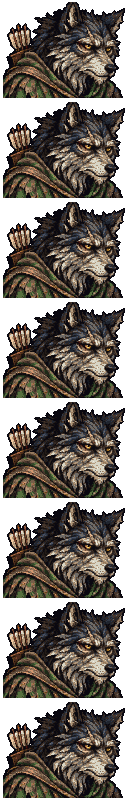
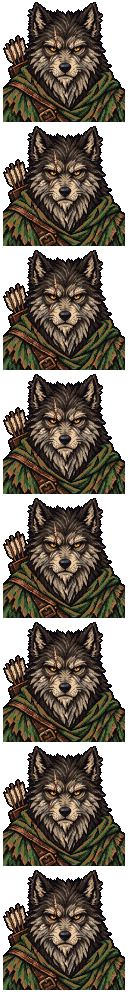
The ending's close-ups are his two new front faces: GreyFang scowling, the Harbinger with both mirrors (deep16/_src/Fresh, cut by tools/faces-sheet.py to 120 px; the flare finds both mirror eyes, GreyFang no longer turned)
Griz, 10-08: "I remember a lot of the art sheets starting with a big ole face in the top left.." -- and then two faces of their own, dropped in Fresh.

diff --git a/deep16/js/trophy.js b/deep16/js/trophy.js
@@ -48,7 +48,7 @@
     var c = document.createElement('canvas'); c.width = f.fw; c.height = f.fh; var g = c.getContext('2d'); g.drawImage(f.img, f.sx, f.sy, f.fw, f.fh, 0, 0, f.fw, f.fh);
     var d = g.getImageData(0, 0, f.fw, f.fh).data, top = f.fh, pts = [];
     for (var y = 0; y < f.fh; y++) for (var x = 0; x < f.fw; x++) if (d[(y * f.fw + x) * 4 + 3] > 0) { top = Math.min(top, y); }
-    for (y = top; y < top + (f.ay - top) * 0.45; y++) for (x = 0; x < f.fw; x++) { var i = (y * f.fw + x) * 4; if (d[i + 3] > 0 && d[i + 2] > 190 && d[i + 1] > 170 && d[i + 2] >= d[i]) pts.push([x, y]); }
+    for (y = top; y < top + (f.ay - top) * 0.6; y++) for (x = 0; x < f.fw; x++) { var i = (y * f.fw + x) * 4; if (d[i + 3] > 0 && d[i + 2] > 190 && d[i + 1] > 170 && d[i + 2] >= d[i]) pts.push([x, y]); }
     if (!pts.length) return (EYES[key] = []);
     var mx = pts.reduce(function (s, p) { return s + p[0]; }, 0) / pts.length, L = pts.filter(function (p) { return p[0] <= mx; }), R = pts.filter(function (p) { return p[0] > mx; });
     var mean = function (ps) { return ps.length ? [ps.reduce(function (s, p) { return s + p[0]; }, 0) / ps.length - f.ax, ps.reduce(function (s, p) { return s + p[1]; }, 0) / ps.length - f.ay] : null; };
@@ -174,13 +174,13 @@
       // ---- his face: "The Mane is mine."
       for (var df = 0; df < 16; df++) { S.dim = df / 16 * 0.8; yield 1; }
       for (var fw8 = 0; fw8 < 120 && D.spr.ready && !D.spr.ready(['face_harbinger', 'face_greyfang']); fw8++) yield 1; // (the faces not come yet: a moment's wait, two seconds at most)
-      S.face = { sheet: 'face_harbinger', s: 1.2, flare: 0 }; // (the big face off his sheet -- Griz, 10-08: "I remember a lot of the art sheets starting with a big ole face in the top left..")
-      for (var zf = 0; zf < 22; zf++) { S.face.s = 1.2 + ease(zf / 22) * 1.5; yield 1; } // (in on it)
+      S.face = { sheet: 'face_harbinger', s: 1.0, flare: 0 }; // (the big face off his sheet -- Griz, 10-08: "I remember a lot of the art sheets starting with a big ole face in the top left..")
+      for (var zf = 0; zf < 22; zf++) { S.face.s = 1.0 + ease(zf / 22) * 1.1; yield 1; } // (in on it)
       word('audio/the_mane_is_mine.mp3', 'The Mane is mine.');
       B.card(['{v}"The Mane is mine."{/}'], 1e9, 'trophy');
       for (var ef = 0; ef < 40; ef++) { S.face.flare = ef < 8 ? ef / 8 : Math.max(0, 1 - (ef - 8) / 32); yield 1; }
       yield 30;
-      for (zf = 0; zf < 14; zf++) { S.face.s = 2.7 - ease(zf / 14) * 1.2; S.dim = 0.8 * (1 - zf / 14); yield 1; }
+      for (zf = 0; zf < 14; zf++) { S.face.s = 2.1 - ease(zf / 14) * 1.0; S.dim = 0.8 * (1 - zf / 14); yield 1; }
       S.face = null; S.dim = 0;
       // ---- the Pounce onto GreyFang
       B.clearCards && B.clearCards();
@@ -222,10 +222,10 @@
       // ---- their faces
       B.card(['{v}High over the pit, it looks GreyFang in the eye.{/}'], 1e9, 'trophy');
       for (df = 0; df < 12; df++) { S.dim = df / 12 * 0.55; yield 1; }
-      S.face = { sheet: 'face_harbinger', s: 1.2 };
-      for (zf = 0; zf < 18; zf++) { S.face.s = 1.2 + ease(zf / 18) * 1.5; yield 1; }
+      S.face = { sheet: 'face_harbinger', s: 1.0 };
+      for (zf = 0; zf < 18; zf++) { S.face.s = 1.0 + ease(zf / 18) * 1.1; yield 1; }
       yield 50;
-      S.face = { sheet: 'face_greyfang', s: 2.7, flip: true }; // (his, turned to look back at it)
+      S.face = { sheet: 'face_greyfang', s: 2.1 }; // (his, looking back at it: the front face he drew, 10-08)
       yield 60;
       // ---- the flash: the trophy taken
       D.sfx('crit');

diff --git a/deep16/data/sprites.js b/deep16/data/sprites.js
@@ -2671,46 +2671,46 @@
 "source": "generated by Griz (2026-10-08: three GPT sheets -- the side rows with a turnaround, one from the front, one from behind), cut by tools/ettin-sheet.py"
 },
 "face_greyfang": {
-"image": "art/face_greyfang.png?v=cd352655d7",
+"image": "art/face_greyfang.png?v=7d194172cc",
 "fw": 128,
-"fh": 100,
+"fh": 124,
 "ax": 64,
-"ay": 98,
+"ay": 122,
 "top": 2,
 "anims": {
 "idle": {
 "y": 0,
 "fw": 128,
-"fh": 100,
+"fh": 124,
 "ax": 64,
-"ay": 98,
+"ay": 122,
 "frames": 1,
 "fps": 6
 }
 },
-"face": 48,
-"source": "the big face off Fresh\\Greyfang_ Grizzled Veteran Ranger Sprite Sheet-1.png (Griz, 10-08), cut by tools/faces-sheet.py"
+"face": 60,
+"source": "the big face off Fresh\\Greyfang, the grizzled wolfkin ranger.png (Griz, 10-08), cut by tools/faces-sheet.py"
 },
 "face_harbinger": {
-"image": "art/face_harbinger.png?v=ed6ed3fb80",
-"fw": 112,
-"fh": 100,
-"ax": 56,
-"ay": 98,
+"image": "art/face_harbinger.png?v=ce64af6a19",
+"fw": 128,
+"fh": 124,
+"ax": 64,
+"ay": 122,
 "top": 2,
 "anims": {
 "idle": {
 "y": 0,
-"fw": 112,
-"fh": 100,
-"ax": 56,
-"ay": 98,
+"fw": 128,
+"fh": 124,
+"ax": 64,
+"ay": 122,
 "frames": 1,
 "fps": 6
 }
 },
-"face": 48,
-"source": "the big face off Mirror-Eyed Gnoll Action Sprite Sheet2.png (Griz, 10-08), cut by tools/faces-sheet.py"
+"face": 60,
+"source": "the big face off Fresh\\Harbinger, the Mirror Gnoll.png (Griz, 10-08), cut by tools/faces-sheet.py"
 },
 "firebeetle_p1": {
 "image": "art/firebeetle_p1.png?v=41ee7cce6c",

diff --git a/deep16/index.html b/deep16/index.html
@@ -77,7 +77,7 @@
 <script src="js/art.js?v=e1ce4cf012"></script>
 <script src="data/cavern.js?v=647c1a184a"></script>
 <script src="data/maps.js?v=91d6fdf21f"></script>
-<script src="data/sprites.js?v=14d7807a17"></script>
+<script src="data/sprites.js?v=a0dad80b3a"></script>
 <script src="js/sprites.js?v=f6464a2cb2"></script>
 <script src="js/save.js?v=96d3055d4e"></script>
 <script src="data/spells.js?v=29f50e7090"></script>
@@ -106,7 +106,7 @@
 <script src="js/looks.js?v=7d46785bc7"></script>
 <script src="js/oil.js?v=fdd29d85e2"></script>
 <script src="js/pyro.js?v=e2ff24db6b"></script>
-<script src="js/trophy.js?v=2123e42de0"></script>
+<script src="js/trophy.js?v=09a58a342e"></script>
 <script src="js/wet.js?v=12cff339cc"></script>
 <script src="js/keeper.js?v=30681b6341"></script>
 <script src="js/keeperplay.js?v=4ee5976480"></script>

diff --git a/tools/faces-sheet.py b/tools/faces-sheet.py
@@ -29,11 +29,13 @@ if not os.path.exists(os.path.join(SRC, 'Mirror-Eyed Gnoll Action Sprite Sheet2.
     _common = subprocess.run(['git', '-C', ROOT, 'rev-parse', '--git-common-dir'], capture_output=True, text=True).stdout.strip()
     SRC = os.path.join(os.path.dirname(os.path.abspath(os.path.join(ROOT, _common))), 'deep16', '_src')
 
-HEIGHT = 96          # px tall at game size (the screen is 270: a close-up at 2x stands most of its height)
+HEIGHT = 120         # px tall at game size (the screen is 270: a close-up at 2x stands most of its height)
 FACES = {
-    # name: (source sheet, the portrait's box on it, boxes whose amber is painted as a mirror)
-    'face_greyfang': (os.path.join('Fresh', 'Greyfang_ Grizzled Veteran Ranger Sprite Sheet-1.png'), (0, 45, 298, 274), []),
-    'face_harbinger': ('Mirror-Eyed Gnoll Action Sprite Sheet2.png', (0, 20, 300, 285), [(171, 125, 194, 141)]),
+    # name: (source, the portrait's box on it, boxes whose amber is painted as a mirror). Since 10-08 evening his own two front faces, drawn for these
+    # close-ups -- the Harbinger's with both mirrors. The first cut was the sheets' side portraits (GreyFang's sheet 1 box (0, 45, 298, 274); the made
+    # gnoll's sheet 2 box (0, 20, 300, 285), its amber eye (171, 125, 194, 141) painted over): mirror_eye stays for a portrait that needs it
+    'face_greyfang': (os.path.join('Fresh', 'Greyfang, the grizzled wolfkin ranger.png'), (0, 0, 1254, 1254), []),
+    'face_harbinger': (os.path.join('Fresh', 'Harbinger, the Mirror Gnoll.png'), (0, 0, 1254, 1254), []),
 }
 
 
